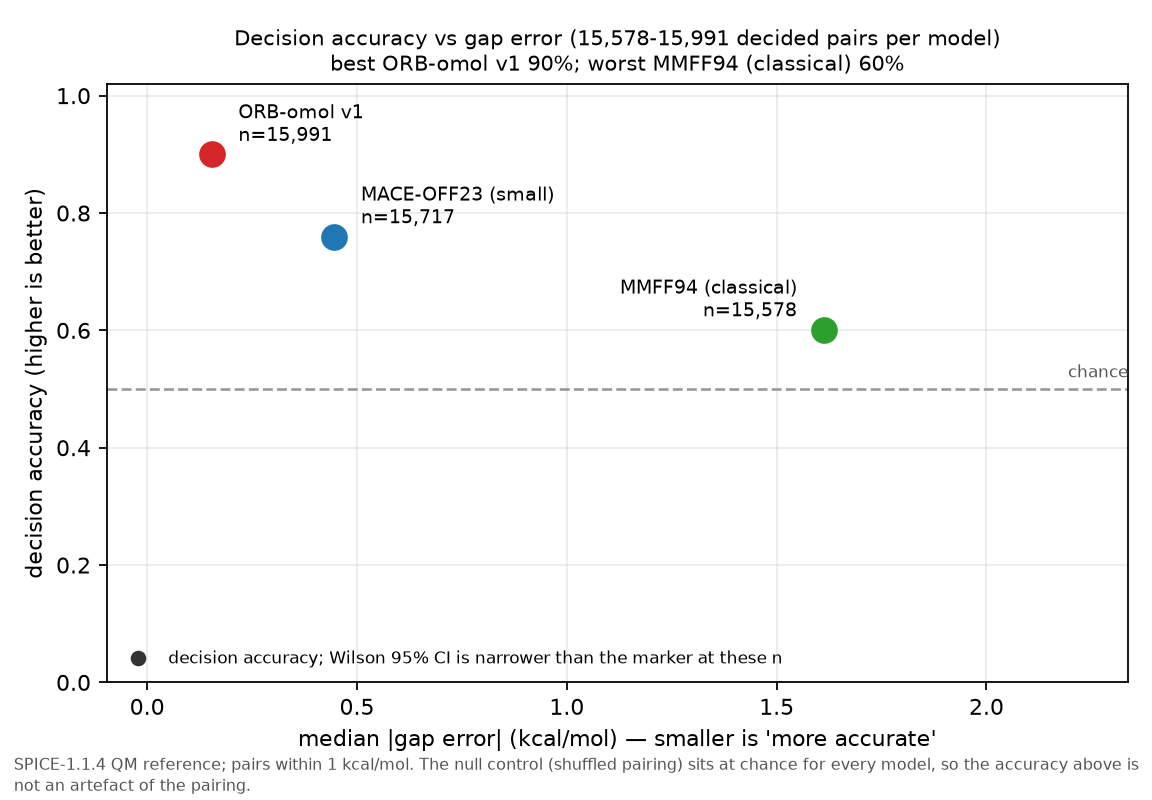
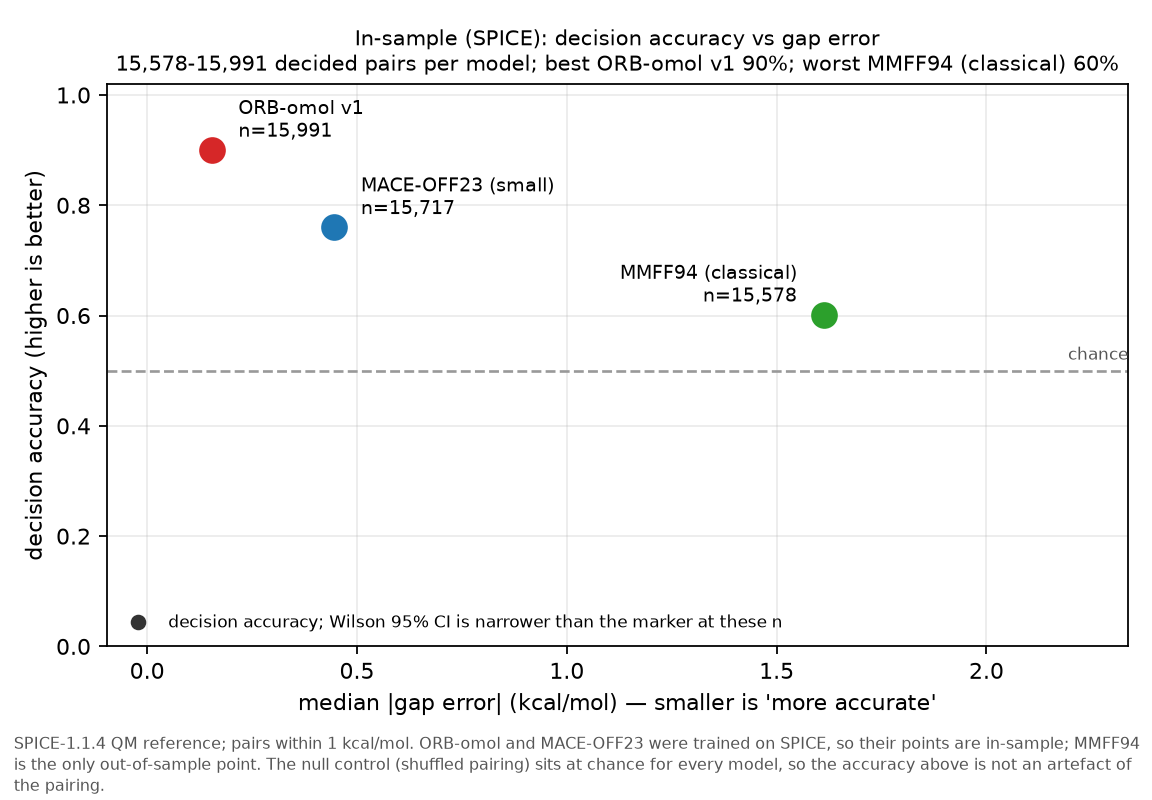
Figures: replace the withdrawn held-out panel; say in-sample in the lead title
figures/heldout.png: the right panel plotted each model's shift minus MMFF94's
(ORB-omol -0.089) under "accuracy change beyond the uncontaminated control", a
reading the README withdrew, with tick labels -0.1250 / -0.0667 / -0.0083. It
now plots accuracy by reference-gap bin, SPICE dashed against Folmsbee solid,
from the same rows and bins as scripts/reconcile_heldout.py block H3; every
plotted point equals the README gap-size table to three decimals. The left
panel is unchanged.

figures/fidelity_vs_error.png: the title starts "In-sample (SPICE)" and the
footer says which two models trained on SPICE, so the figure carries the
disclosure when it is copied without its caption. Footer given room so it no
longer crowds the x label.

No plotted value changed. Other figures regenerate byte-identical.

diff --git a/scripts/make_figures.py b/scripts/make_figures.py
@@ -148,18 +148,23 @@ def fig_fidelity_vs_error(df: pd.DataFrame) -> None:
     ax.set_ylim(0, 1.02)
     ax.text(ax.get_xlim()[1], chance + 0.02, "chance", fontsize=7.5, ha="right",
             color="#555555")
+    # "In-sample" is in the title, not only in the README: two of the three models
+    # trained on SPICE, and a figure gets copied without its caption.
     ax.set_title(
-        f"Decision accuracy vs gap error ({span} decided pairs per model)\n"
-        f"{headline}", fontsize=9.5)
+        f"In-sample (SPICE): decision accuracy vs gap error\n"
+        f"{span} decided pairs per model; {headline}", fontsize=9.5)
     handles = [Line2D([], [], marker="o", ls="", color="#333333", ms=6,
                       label="decision accuracy; Wilson 95% CI is narrower than "
                             "the marker at these n")]
     ax.legend(handles=handles, loc="lower left", fontsize=7.5, frameon=False)
     ax.grid(alpha=0.25)
-    _footer(fig, "SPICE-1.1.4 QM reference; pairs within 1 kcal/mol. The null "
+    _footer(fig, "SPICE-1.1.4 QM reference; pairs within 1 kcal/mol. ORB-omol and "
+                 "MACE-OFF23 were trained on SPICE, so their points are in-sample; "
+                 "MMFF94 is the only out-of-sample point. The null "
                  "control (shuffled pairing) sits at chance for every model, so "
                  "the accuracy above is not an artefact of the pairing.")
-    fig.tight_layout(rect=(0, 0.03, 1, 1))
+    # The footer wraps to three lines at this width; leave it room below the x label.
+    fig.tight_layout(rect=(0, 0.075, 1, 1))
     fig.savefig(FIGS / "fidelity_vs_error.png", dpi=160)
     plt.close(fig)
 
@@ -424,18 +429,20 @@ def fig_licence_table(df: pd.DataFrame) -> None:
 
 
 def fig_heldout(_df: pd.DataFrame | None = None) -> None:
-    """The held-out test: in-sample vs out-of-sample, and the difficulty offset.
+    """The held-out test: in-sample vs a second dataset, overall and at equal gap.
 
     Takes `_df` only because main() calls every figure builder with the summary
-    frame; this figure reads results/heldout_folmsbee_summary.csv instead, since
-    the in-sample and held-out numbers live in different artefacts.
+    frame; this figure reads results/heldout_folmsbee_summary.csv and the
+    decision CSVs instead, since the in-sample and held-out numbers live in
+    different artefacts.
 
-    This is the figure the repo's central claim needs, and it did not exist until
-    a second held-out benchmark showed the two sets disagree. Left panel: each
-    model's in-sample SPICE accuracy against its accuracy on unseen sub-kcal
-    pairs. Right panel: the same shift with the uncontaminated control (MMFF94,
-    which has trained on neither dataset) subtracted, which is the only way to
-    separate contamination from the held-out slice simply being easier.
+    Left panel: each model's in-sample SPICE accuracy against its accuracy on
+    Folmsbee's sub-kcal pairs. Right panel: accuracy by size of the reference
+    gap on both datasets (the README's gap-size table). The right panel used to
+    plot each model's shift minus MMFF94's, labelled "beyond the uncontaminated
+    control"; that reading was withdrawn because MMFF94's accuracy barely depends
+    on the gap while the ML models' does, and at equal gap every model scores
+    higher on Folmsbee. The gap-size comparison is the evidence for that.
     """
     fb_path = RESULTS / "heldout_folmsbee_summary.csv"
     if not fb_path.exists():
@@ -477,7 +484,7 @@ def fig_heldout(_df: pd.DataFrame | None = None) -> None:
     ax.set_xticklabels([label(m) for m in order], fontsize=8)
     ax.set_ylim(0, 1.02)
     ax.set_ylabel("decision accuracy on sub-kcal pairs")
-    ax.set_title("Same models, same question, unseen molecules\n"
+    ax.set_title("Same models, same question, a dataset outside SPICE\n"
                  f"{int(out['n_under_1kcal'].iloc[0]):,} held-out pairs "
                  f"vs {int(ins['n_decided'].max()):,} in-sample",
                  fontsize=9.5)
@@ -486,42 +493,42 @@ def fig_heldout(_df: pd.DataFrame | None = None) -> None:
               bbox_to_anchor=(0.5, -0.12), ncol=2)
     ax.grid(axis="y", alpha=0.25)
 
-    # Right panel: shift net of the uncontaminated control.
-    control = "rdkit_mmff"
-    offset = (out.loc[control, "acc_under_1kcal"] - ins.loc[control, "accuracy"]
-              if control in order else 0.0)
-    shifts = [(out.loc[m, "acc_under_1kcal"] - ins.loc[m, "accuracy"]) - offset
-              for m in order]
-    cols = ["#2ca02c" if abs(sv) < 0.02 else "#d62728" for sv in shifts]
-    ax2.barh(xs, shifts, 0.55, color=cols, edgecolor="black", linewidth=0.5)
-    for y, sv in zip(xs, shifts):
-        ax2.text(sv + (0.006 if sv >= 0 else -0.006), y, f"{sv:+.3f}",
-                 va="center", ha="left" if sv >= 0 else "right", fontsize=8)
-    ax2.axvline(0, color="black", lw=1)
-    ax2.set_yticks(xs)
-    ax2.set_yticklabels([label(m) for m in order], fontsize=8)
-    ax2.set_xlabel("accuracy change beyond the uncontaminated control")
-    # Two SHORT lines. The explanatory clause ("...so its own bar is zero by
-    # construction") made line 2 wider than the half-canvas and clipped it at the
-    # figure edge; the explanation belongs in the footer, which wraps.
-    ax2.set_title("Shift beyond the MMFF94 control\n"
-                  f"(MMFF94 = {offset:+.3f}, an assumed offset)",
-                  fontsize=9.5)
-    ax2.set_xlim(min(shifts) - 0.045, max(shifts) + 0.045)
-    # Four ticks, not the default eight: at this narrow range the labels ran
-    # together with no gap (a vision pass caught it).
-    ax2.set_xticks(np.linspace(round((min(shifts) - 0.04) * 40) / 40,
-                               round((max(shifts) + 0.04) * 40) / 40, 4))
-    ax2.grid(axis="x", alpha=0.25)
+    # Right panel: accuracy at equal gap size, SPICE (dashed) vs Folmsbee (solid).
+    # Same bins and the same rows as scripts/reconcile_heldout.py block H3: every
+    # row of each decisions CSV, ties included in the first bin.
+    bins = [(0.0, 0.1), (0.1, 0.25), (0.25, 0.5), (0.5, 0.75), (0.75, 1.0)]
+    mids = np.arange(len(bins))
+    for m in order:
+        s = pd.read_csv(RESULTS / f"decisions_{m}_all.csv")
+        f = pd.read_csv(RESULTS / f"heldout_folmsbee_decisions_{m}.csv")
+        sa, fa = s.qm_gap_kcal.abs(), f.ref_kcal.abs()
+        acc_s = [s.agree[(sa >= lo) & (sa < hi)].mean() for lo, hi in bins]
+        acc_f = [f.agree[(fa >= lo) & (fa < hi)].mean() for lo, hi in bins]
+        ax2.plot(mids, acc_s, ls="--", marker="o", mfc="white", color=colour(m), lw=1.3)
+        ax2.plot(mids, acc_f, ls="-", marker="o", color=colour(m), lw=1.6,
+                 label=label(m))
+    ax2.set_xticks(mids)
+    ax2.set_xticklabels([f"{lo:g}–{hi:g}" for lo, hi in bins], fontsize=8)
+    ax2.set_xlabel("reference gap (kcal/mol)")
+    ax2.set_ylim(0.45, 1.0)
+    ax2.set_yticks([0.5, 0.6, 0.7, 0.8, 0.9, 1.0])
+    ax2.axhline(0.5, ls="--", lw=1, color="#777777")
+    ax2.set_title("At equal gap size, every model scores higher\n"
+                  "on Folmsbee (solid) than on SPICE (dashed)", fontsize=9.5)
+    handles = [Line2D([], [], color=colour(m), lw=1.6, label=label(m)) for m in order]
+    handles += [Line2D([], [], color="#333333", ls="--", marker="o", mfc="white",
+                       label="SPICE (in-sample)"),
+                Line2D([], [], color="#333333", ls="-", marker="o", label="Folmsbee")]
+    ax2.legend(handles=handles, fontsize=7, frameon=False, loc="upper left")
+    ax2.grid(alpha=0.25)
 
-    _footer(fig, "Left: in-sample SPICE (pairs < 1 kcal/mol) against Folmsbee & "
-                 "Hutchison 2021 (DLPNO-CCSD(T), sub-kcal pairs only), with 95% "
-                 f"Wilson intervals (they ignore clustering by compound; see "
-                 f"README). Right: the shift with MMFF94's {offset:+.3f} "
-                 "subtracted, assuming MMFF94, which trained on neither set, "
-                 "measures how much easier this held-out slice is for every "
-                 "model. A near-zero bar means no inflation detected, not none; "
-                 "MMFF94's own bar is zero by construction.")
+    _footer(fig, "Left: in-sample SPICE (pairs < 1 kcal/mol, ties excluded) against "
+                 "Folmsbee & Hutchison 2021 (DLPNO-CCSD(T), every sub-kcal pair), "
+                 "with 95% Wilson intervals (they ignore clustering by compound; see "
+                 "README). ORB-omol's lower overall Folmsbee figure is composition: "
+                 "Folmsbee has far more pairs under 0.1 kcal/mol. Right: accuracy by "
+                 "reference-gap bin, ties in the first bin. Molecule-level overlap "
+                 "between Folmsbee and the models' training sets was not checked.")
     fig.tight_layout(rect=(0, 0.05, 1, 1))
     fig.savefig(FIGS / "heldout.png", dpi=160)
     plt.close(fig)

diff --git a/README.md b/README.md
@@ -148,9 +148,9 @@ inflation from contamination is demonstrated for either ML model.
 
 ![In-sample vs held out](figures/heldout.png)
 
-*Left: accuracy on each dataset. Right: each model's shift minus MMFF94's. The
-right panel is an estimate under an assumption that does not hold (see "Accuracy
-at equal gap size"); it is not a measured contamination effect.*
+*Left: accuracy on each dataset. Right: accuracy by size of the reference gap,
+SPICE dashed and Folmsbee solid (the gap-size table below). An earlier version
+of the right panel plotted the withdrawn "shift beyond MMFF94" bars.*
 
 | model | SPICE (in-sample) | **Folmsbee held out** | shift | shift minus MMFF94's | Folmsbee, ties excluded (decided pairs) |
 |---|---|---|---|---|---|
